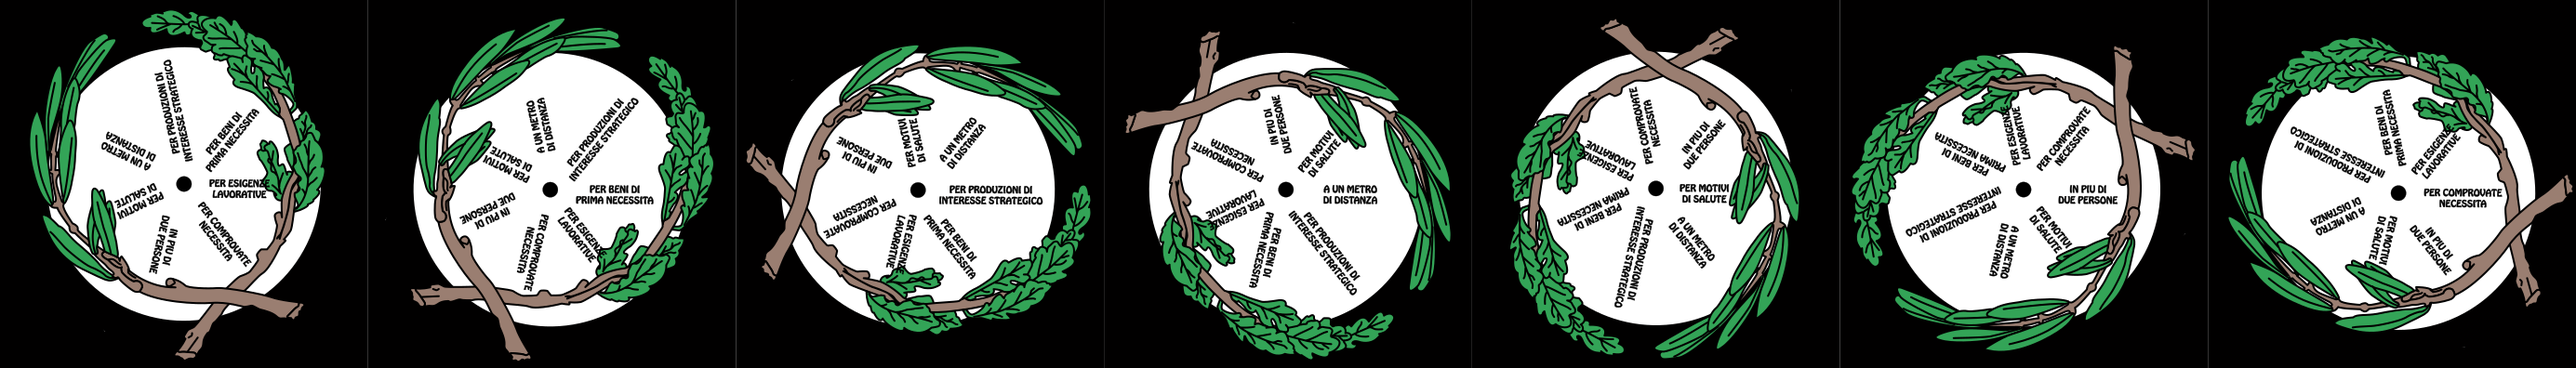
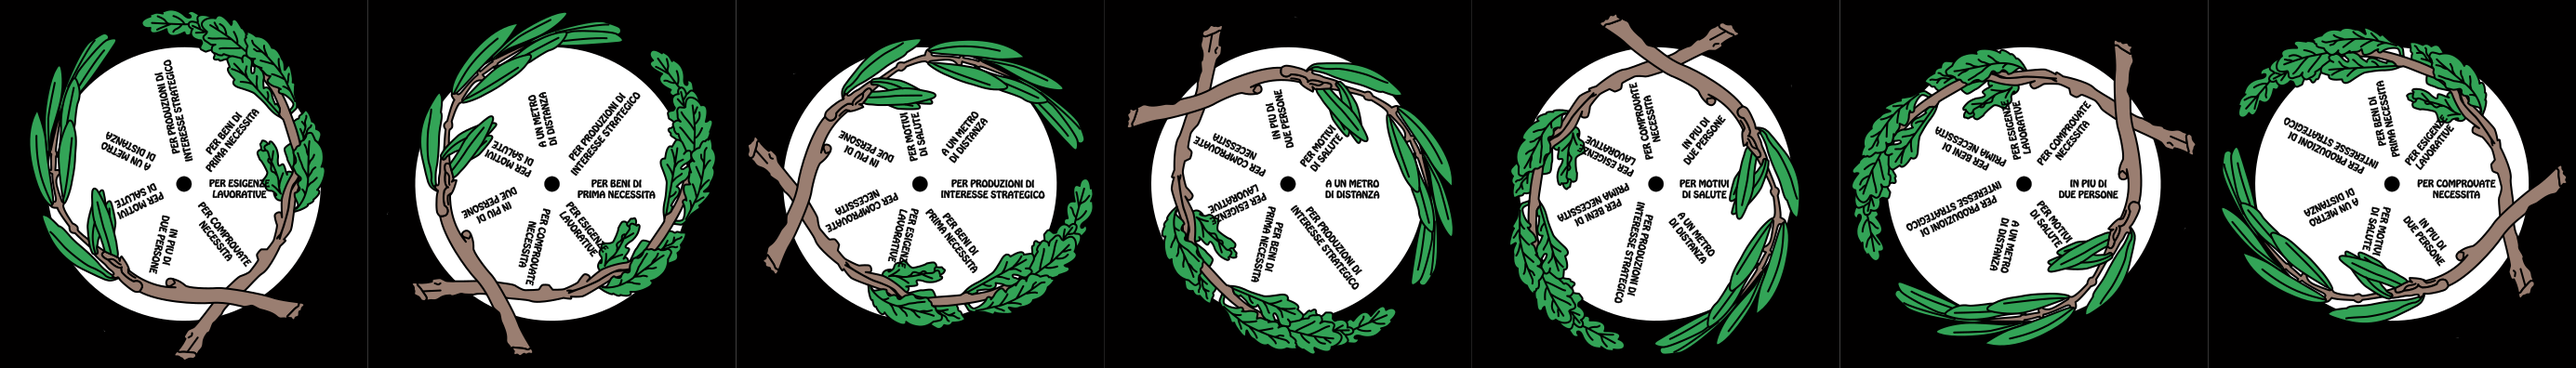
new sprites, some poor debug on sprinte and decrees indexes, new parameters

Changed region(s): [[0.1552, 0.0606, 1.0, 0.9697]]

diff --git a/decretomatic/decrees.py b/decretomatic/decrees.py
@@ -69,11 +69,20 @@ class Decrees():
         """
         Given a decree index touple it will add the corresponding decree to a list.
         """
-        if self.valid_decrees[decree_index[0]][decree_index[1]][decree_index[2]]:
+        index_1=decree_index[0]
+        if index_1<0: index_1+=7
+        if index_1>6: index_1-=7
+        index_2=decree_index[1]
+        if index_2<0: index_2+=7
+        if index_2>6: index_2-=7
+        index_3=decree_index[2]
+        if index_3<0: index_3+=7
+        if index_3>6: index_3-=7
+        if self.valid_decrees[index_1][index_2][index_3]:
             return False
         #return self.valid_decrees[decree_index[0]][decree_index[1]][decree_index[2]]
-        self.valid_decrees[decree_index[0]][decree_index[1]][decree_index[2]] = \
-            self.decrees[decree_index[0]][decree_index[1]][decree_index[2]]
+        self.valid_decrees[index_1][index_2][index_3] = \
+            self.decrees[index_1][index_2][index_3]
         return True
 
     def delete_valid_decree(self, decree_index):
@@ -120,8 +129,8 @@ class Decrees():
 
     def get_factor(self): 
         max_power = 10.0
-        fix_power = 2.0
-        exp_power = 1.4
+        fix_power = 2.5
+        exp_power = 1.5
         max_good_bad = 10.0
         good_bad_thresh = 4.0
 

diff --git a/decretomatic/people.py b/decretomatic/people.py
@@ -34,9 +34,9 @@ class People():
             valid_factors.append(self.decrees.factors[i][j][k])
         standard_factor = float(3.8 + self.extra_factor + float(random.randint(0,10))*0.02)
         decrees_factor = sum(valid_factors)
-        if decrees_factor+standard_factor<=1: self.extra_factor+=0.1
-        self.t_new_sick_ppl += int(0.5+(self.sick_ppl+self.t_new_sick_ppl) * (max(0.0, (decrees_factor + standard_factor)-1.0)))
         self.new_sick_ppl=0
+        self.t_new_sick_ppl += int(0.5+(self.sick_ppl+self.t_new_sick_ppl) * (max(0.0, (decrees_factor + standard_factor)-1.0)))
+        if self.t_new_sick_ppl==0: self.extra_factor+=max(-(0.5*(decrees_factor-1.0),0.1))
         #print(f'sick people: {self.sick_ppl + self.t_new_sick_ppl} with factor: {decrees_factor} and std: {standard_factor}')
 		
     def update(self):

diff --git a/decretomatic/graphs.py b/decretomatic/graphs.py
@@ -107,7 +107,7 @@ class LineGraph(BaseSprite):#, future_gui.LineGraph):
                 y_0=y
                 if i>0:
                     y_0=height*(1.0 - (log10(self.sick_ppls[i-1])/log10(MAX_SICK_PPL)))
-                    dy=height *(1.0 - (self.sick_ppls[i]-self.sick_ppls[i-1])/(1.6*self.sick_ppls[i-1]))
+                    dy=height *(-0.25*(self.sick_ppls[i]-self.sick_ppls[i-1])/(self.sick_ppls[i-1]))
             else:
                 y = height * (1.0 - ((self.sick_ppls[i])/(MAX_SICK_PPL)))
                 y_0=y

diff --git a/decretomatic/sprites.py b/decretomatic/sprites.py
@@ -105,7 +105,10 @@ class Wheel(BaseSprite):
         """
         Set the image from the sprite sheet.
         """
-        self.image = self.images[self.spins] #self.decree_index]
+        index=self.spins
+        if index<0: index+=7
+        if index>6: index-=7
+        self.image = self.images[index] #self.decree_index]
         self.rect = self.image.get_rect()
         self.rect.center = self.position
         print('Updated image')
